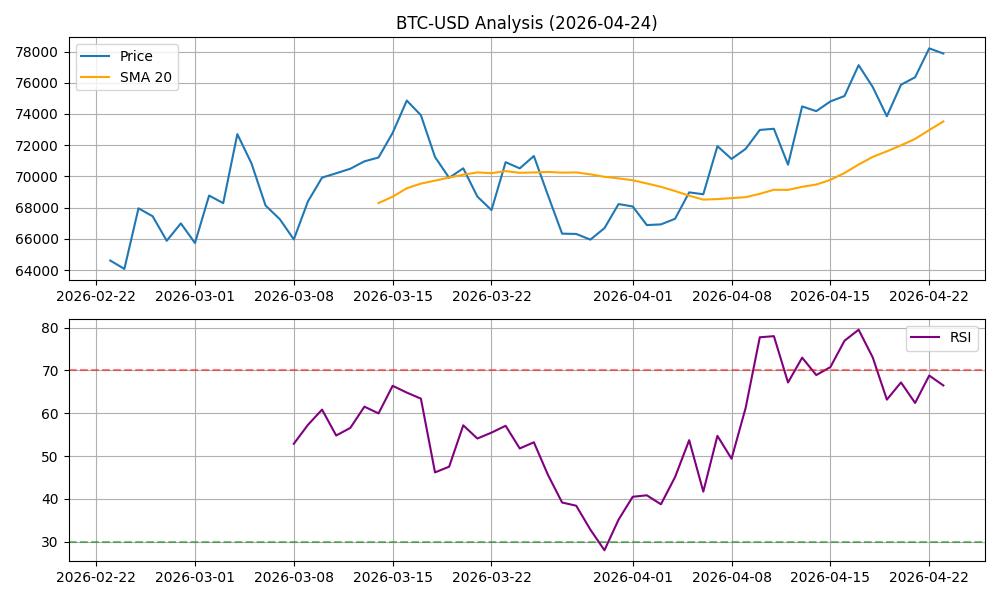
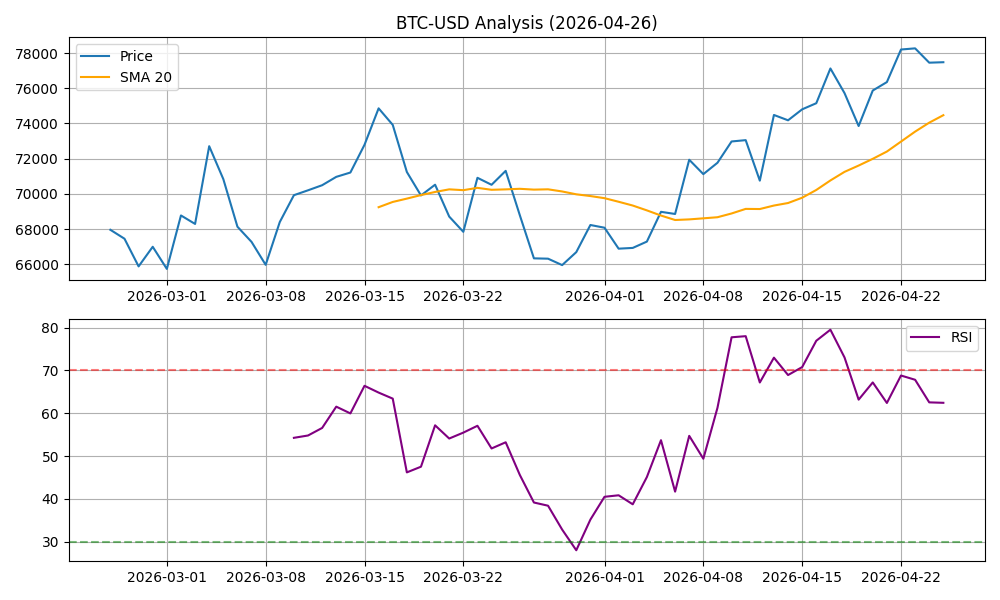
Update market analysis chart. Log tech sentiment stats. Refreshed Dashboard.

diff --git a/README.md b/README.md
@@ -1,6 +1,6 @@
 # 🤖 Advanced Engineering Automation Dashboard
 
-**Auto-generated Report** | Last Updated: 2026-04-24 02:27:20
+**Auto-generated Report** | Last Updated: 2026-04-26 02:27:21
 
 > **Project Overview**
 > This project performs real data fetching and analysis.
@@ -11,15 +11,15 @@
 > *This is a legitimate "Data Collection & Analysis" project, not a fake commit generator.*
 
 ## 📊 Market Pulse (CryptoAnalyst)
-> 2026-04-24 02:27:11.620013: BTC $77872.65 | RSI: 66.49
+> 2026-04-26 02:27:12.888102: BTC $77481.58 | RSI: 62.43
 
 ![BTC Analysis](data/btc_analysis.png)
 
 ## 📰 Tech Sentiment (NewsPulse)
-## 2026-04-24
-- **Tech Mood**: Negative 📉 (Score: -0.02)
-- **Top Story**: GPT-5.5
-- **Sample**: _Girl, 10, finds rare Mexican axolotl under Welsh bridge_
+## 2026-04-26
+- **Tech Mood**: Positive 📈 (Score: 0.11)
+- **Top Story**: The Free Universal Construction Kit
+- **Sample**: _1-Bit Hokusai's "The Great Wave" (2023)_
 
 
 

diff --git a/data/daily_digest.md b/data/daily_digest.md
@@ -133,3 +133,8 @@
 - **Top Story**: GPT-5.5
 - **Sample**: _Girl, 10, finds rare Mexican axolotl under Welsh bridge_
 
+## 2026-04-26
+- **Tech Mood**: Positive 📈 (Score: 0.11)
+- **Top Story**: The Free Universal Construction Kit
+- **Sample**: _1-Bit Hokusai's "The Great Wave" (2023)_
+
